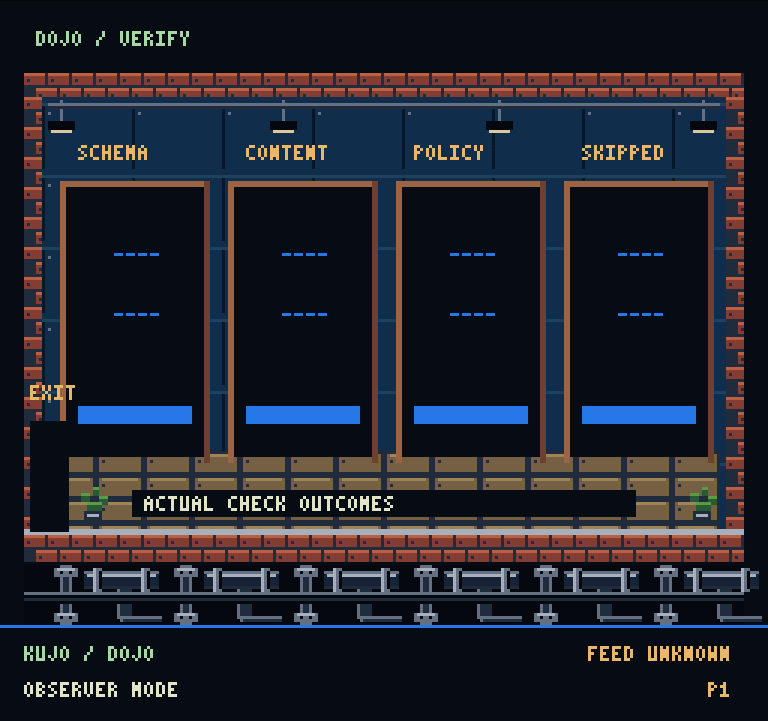
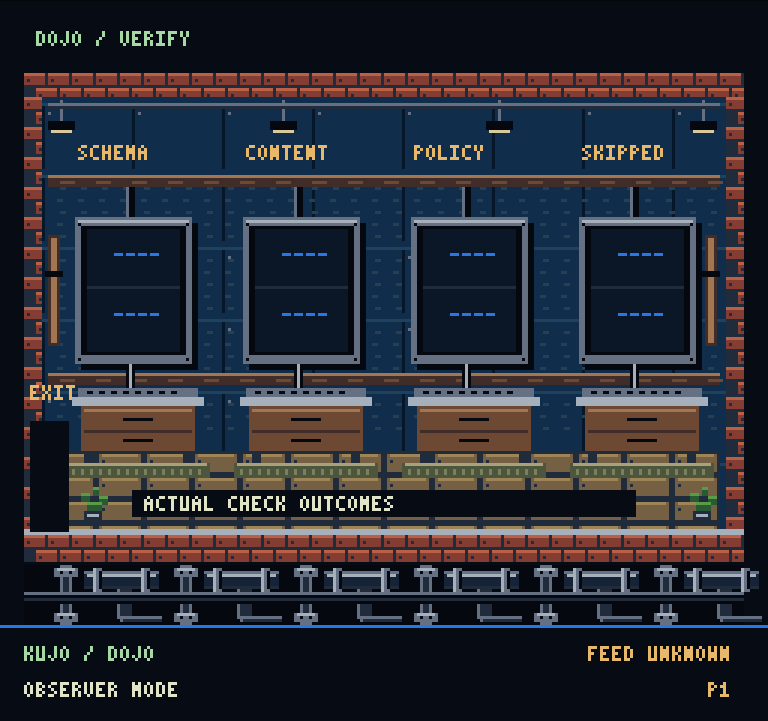
Record updated Dojo and MCP room captures

Changed region(s): [[0.0625, 0.2441, 0.9375, 0.6713]]

diff --git a/evidence/game-view/README.md b/evidence/game-view/README.md
@@ -22,3 +22,10 @@ Reference comparison (research/visual-reference-manifest.json):
 
 This closes the optional world-filling presentation gap, not final reference-fidelity
 approval. Source truth and replay behavior remain independent of fullscreen.
+
+Dojo/MCP scenery revision (2026-10-08): compact evaluation instruments and desks
+replace full-height black panels; varied network cabinet heights and ducts replace
+six repeated rack silhouettes. Authored portals/stations and actual outcome/source
+labels remain in place. Current captures are still empty-world fixtures with no
+invented operations. This is a visual improvement, not approval of full-reference
+fidelity or new live-product evidence.
